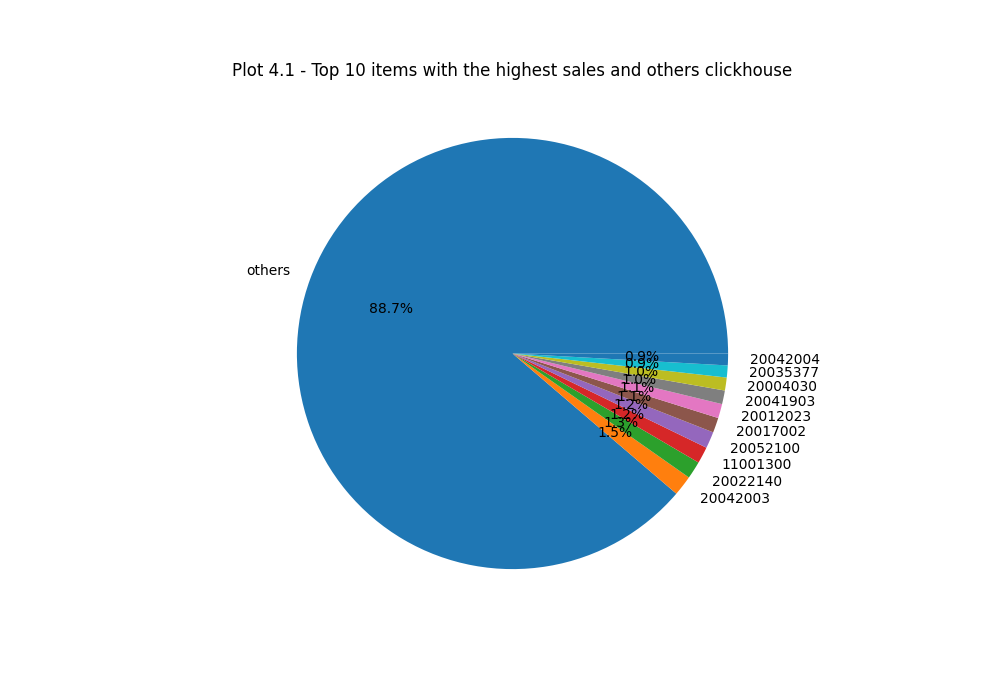
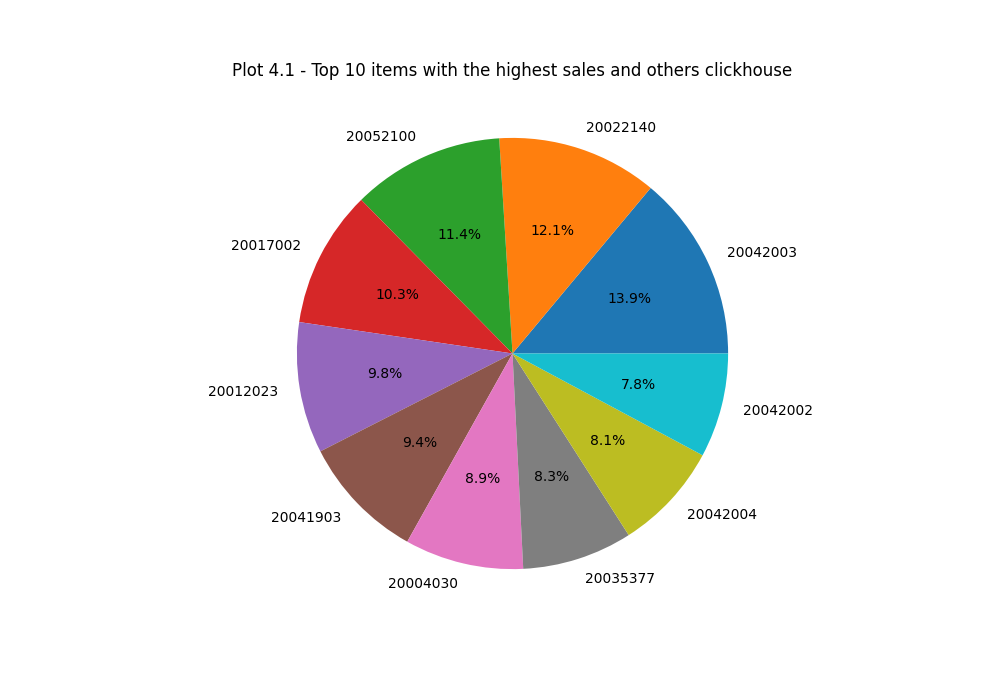
fix for badim 1.1111

Changed region(s): [[0.217, 0.15, 0.837, 0.84], [0.744, 0.33, 0.775, 0.39], [0.62, 0.42, 0.651, 0.45]]

diff --git a/report_for_rafael_badim_every_month.py b/report_for_rafael_badim_every_month.py
@@ -13,6 +13,9 @@ host = os.environ['CLICKHOUSE_HOST']
 start_date = '2023-05-01'
 end_date = '2024-06-13'
 agg_time_freq = 'M'
+digits_0_2 = ['20', '10']
+digits_2_5 = []
+digits_2_8 = []
 order_status = ['בוצעה', 'שולמה', 'מבוטלת']
 items = []
 units = ['מטר']
@@ -42,6 +45,15 @@ def filter_for_query(name_of_column, filter_list):
         formatted_values = ", ".join([f"'{x}'" if isinstance(x, str) else str(x) for x in filter_list])
         return f"AND {name_of_column} IN ({formatted_values})"
 
+def filter_from_right_item_charachters(filter_list, index_of_first_char, lenght_of_chars, name_of_column='item'):
+    if len(filter_list) == 0:
+        return ''
+    else:
+        formatted_values = ", ".join([f"'{x}'" if isinstance(x, str) else str(x) for x in filter_list])
+        return f"AND SUBSTRING({name_of_column}, {index_of_first_char + 1}, {lenght_of_chars}) IN ({formatted_values})"
+
+
+
 # Directory containing the SQL scripts
 input_directory = f'/Users/guybasson/PycharmProjects/clickhouse_sql_repo/setup/{client}/generation_tables/{layer}'
 
@@ -52,7 +64,11 @@ sales_df = client.query_dataframe(f'''SELECT * FROM silver_badim.sales
                             WHERE status_date >= '{start_date}' AND status_date <= '{end_date}' 
                             {filter_for_query('order_status', order_status)}
                              {filter_for_query('item', items)}
-                             {filter_for_query('unit', units)}''')
+                             {filter_for_query('unit', units)}
+                             {filter_from_right_item_charachters(digits_0_2, 0, 2)}
+                             {filter_from_right_item_charachters(digits_2_5, 2, 3)}
+                             {filter_from_right_item_charachters(digits_2_8, 2, 6)}
+                             ''')
 
 # in sales_df i have date column that contains date in format '2021-01-01' or '2021-01' i want add column
 # that will contain only year and month in format '2021-01'
@@ -96,6 +112,9 @@ query_1 = f'''
     {filter_for_query('order_status', order_status)}
     {filter_for_query('item', items)}
     {filter_for_query('unit', units)}
+    {filter_from_right_item_charachters(digits_0_2, 0, 2)}
+    {filter_from_right_item_charachters(digits_2_5, 2, 3)}
+    {filter_from_right_item_charachters(digits_2_8, 2, 6)}
     GROUP BY agg_date
     ORDER BY agg_date
 '''
@@ -147,6 +166,9 @@ query_2 = f'''
     {filter_for_query('order_status', order_status)}
     {filter_for_query('item', items)}
     {filter_for_query('unit', units)}
+    {filter_from_right_item_charachters(digits_0_2, 0, 2)}
+                                 {filter_from_right_item_charachters(digits_2_5, 2, 3)}
+                             {filter_from_right_item_charachters(digits_2_8, 2, 6)}
     GROUP BY agg_date
     ORDER BY agg_date
 '''
@@ -191,6 +213,9 @@ query_3 = f'''WITH
     {filter_for_query('order_status', order_status)}
     {filter_for_query('item', items)}
     {filter_for_query('unit', units)}
+    {filter_from_right_item_charachters(digits_0_2, 0, 2)}
+                                 {filter_from_right_item_charachters(digits_2_5, 2, 3)}
+                             {filter_from_right_item_charachters(digits_2_8, 2, 6)}
         GROUP BY item
         ORDER BY sum(total_price) DESC
         LIMIT 7
@@ -221,6 +246,9 @@ LEFT JOIN
     {filter_for_query('order_status', order_status)}
     {filter_for_query('item', items)}
     {filter_for_query('unit', units)}
+    {filter_from_right_item_charachters(digits_0_2, 0, 2)}
+                                 {filter_from_right_item_charachters(digits_2_5, 2, 3)}
+                             {filter_from_right_item_charachters(digits_2_8, 2, 6)}
     ) AS sales
 ON
     cross_join.status_date = toDate(sales.status_date) AND cross_join.item = sales.item
@@ -275,6 +303,9 @@ query_4 = f'''WITH
         {filter_for_query('order_status', order_status)}
         {filter_for_query('item', items)}
         {filter_for_query('unit', units)}
+        {filter_from_right_item_charachters(digits_0_2, 0, 2)}
+                                     {filter_from_right_item_charachters(digits_2_5, 2, 3)}
+                             {filter_from_right_item_charachters(digits_2_8, 2, 6)}
         GROUP BY item
         ORDER BY sum(total_price) DESC
         LIMIT 10
@@ -290,6 +321,7 @@ WHERE
     {filter_for_query('order_status', order_status)}
     {filter_for_query('item', items)}
     {filter_for_query('unit', units)}
+    {filter_from_right_item_charachters(digits_0_2, 0, 2)}
 GROUP BY 
     item
 ORDER BY
@@ -344,6 +376,9 @@ WITH
             {filter_for_query('order_status', order_status)}
             {filter_for_query('item', items)}
             {filter_for_query('unit', units)}
+            {filter_from_right_item_charachters(digits_0_2, 0, 2)}
+                                         {filter_from_right_item_charachters(digits_2_5, 2, 3)}
+                             {filter_from_right_item_charachters(digits_2_8, 2, 6)}
         GROUP BY
             status_date
     ),
@@ -423,6 +458,9 @@ WITH
             {filter_for_query('order_status', order_status)}
             {filter_for_query('item', items)}
             {filter_for_query('unit', units)}
+            {filter_from_right_item_charachters(digits_0_2, 0, 2)}
+                                         {filter_from_right_item_charachters(digits_2_5, 2, 3)}
+                             {filter_from_right_item_charachters(digits_2_8, 2, 6)}
         GROUP BY
             status_date
     ),
@@ -492,6 +530,9 @@ query_7 = f'''WITH
             {filter_for_query('order_status', order_status)}
             {filter_for_query('item', items)}
             {filter_for_query('unit', units)}
+            {filter_from_right_item_charachters(digits_0_2, 0, 2)}
+                                         {filter_from_right_item_charachters(digits_2_5, 2, 3)}
+                             {filter_from_right_item_charachters(digits_2_8, 2, 6)}
         GROUP BY
             toMonth(toDate(status_date))
     )
@@ -585,6 +626,9 @@ WITH
             {filter_for_query('order_status', order_status)}
             {filter_for_query('item', items)}
             {filter_for_query('unit', units)}
+            {filter_from_right_item_charachters(digits_0_2, 0, 2)}
+                                         {filter_from_right_item_charachters(digits_2_5, 2, 3)}
+                             {filter_from_right_item_charachters(digits_2_8, 2, 6)}
     ),
 
     -- Aggregate total price per day per category
@@ -743,6 +787,9 @@ query_9 = f"""WITH
             {filter_for_query('order_status', order_status)}
             {filter_for_query('item', items)}
             {filter_for_query('unit', units)}
+            {filter_from_right_item_charachters(digits_0_2, 0, 2)}
+                                         {filter_from_right_item_charachters(digits_2_5, 2, 3)}
+                             {filter_from_right_item_charachters(digits_2_8, 2, 6)}
     ),
 
     -- Aggregate total price per day per color
@@ -927,6 +974,9 @@ query_10 = f"""WITH
             {filter_for_query('order_status', order_status)}
             {filter_for_query('item', items)}
             {filter_for_query('unit', units)}
+            {filter_from_right_item_charachters(digits_0_2, 0, 2)}
+                                         {filter_from_right_item_charachters(digits_2_5, 2, 3)}
+                             {filter_from_right_item_charachters(digits_2_8, 2, 6)}
         GROUP BY
             color
     )
@@ -987,6 +1037,9 @@ WHERE
     {filter_for_query('order_status', order_status)}
     {filter_for_query('item', items)}
     {filter_for_query('unit', units)}
+    {filter_from_right_item_charachters(digits_0_2, 0, 2)}
+                                 {filter_from_right_item_charachters(digits_2_5, 2, 3)}
+                             {filter_from_right_item_charachters(digits_2_8, 2, 6)}
 GROUP BY
     date
 ORDER BY
@@ -1115,6 +1168,9 @@ query_13 = f"""WITH
             {filter_for_query('order_status', order_status)}
             {filter_for_query('item', items)}
             {filter_for_query('unit', units)}
+            {filter_from_right_item_charachters(digits_0_2, 0, 2)}
+                                         {filter_from_right_item_charachters(digits_2_5, 2, 3)}
+                             {filter_from_right_item_charachters(digits_2_8, 2, 6)}
         GROUP BY
             status_date
     ),
@@ -1436,6 +1492,9 @@ WHERE
     {filter_for_query('item', items)}
     {filter_for_query('unit', units)}
     {filter_for_query('inv_mov_type', inv_mov_types)}
+    {filter_from_right_item_charachters(digits_0_2, 0, 2)}
+                                 {filter_from_right_item_charachters(digits_2_5, 2, 3)}
+                             {filter_from_right_item_charachters(digits_2_8, 2, 6)}
 GROUP BY    
     agg_date    
 ORDER BY

diff --git a/predict_sales.py b/predict_sales.py
@@ -13,9 +13,18 @@ port = int(os.environ['CLICKHOUSE_PORT'])
 host = os.environ['CLICKHOUSE_HOST']
 
 # Parameters
-start_date = '2024-04-01'
+start_date = '2023-05-01'
 end_date = '2024-06-30'
-agg_time_freq = 'D'
+agg_time_freq = 'M'
+items = ['20009902', '20004028']
+inv_mov_types = ['החזרה מלקוח','חשבוניות מס', 'דאטה מסאפ','משלוחים ללקוח']
+def filter_for_query(name_of_column, filter_list):
+    if len(filter_list) == 0:
+        return ''
+    else:
+        # add quotes to string values
+        formatted_values = ", ".join([f"'{x}'" if isinstance(x, str) else str(x) for x in filter_list])
+        return f"AND {name_of_column} IN ({formatted_values})"
 
 print(password, username, port, host)
 client_name = 'badim'
@@ -43,62 +52,69 @@ class CustomLagModel:
 
     def new(self):
         return CustomLagModel(lags=self.lags)
+if __name__ == "__main__":
 
-# Connect to ClickHouse
-client = clickhouse_driver.Client(host=host, user=username, password=password, port=port, secure=True)
+    # Connect to ClickHouse
+    client = clickhouse_driver.Client(host=host, user=username, password=password, port=port, secure=True)
 
-# Fetch data
-sales_df = client.query_dataframe(f'SELECT * FROM {database}.sales')
-print(sales_df.columns)
-print(sales_df['order_status'].unique())
+    query = f'''SELECT * FROM {database}.stock_log
+                                      where toDate(cur_date) >= '{start_date}' and toDate(cur_date) <= '{end_date}'
+                                        {filter_for_query('inv_mov_type', inv_mov_types)}
+                                        {filter_for_query('item', items)}
+                                      '''
+    print(query)
+    sales_df = client.query_dataframe(query)
 
-# Filter and prepare data
-sales_df = sales_df[sales_df['order_status'].isin(['שולמה', 'בוצעה'])].copy()
-sales_df['status_date'] = pd.to_datetime(sales_df['status_date'])
-sales_df['total_price'] = sales_df['total_price'].astype(float)
-sales_df_grouped = sales_df.groupby(['status_date', 'item'])['total_price'].sum().unstack().fillna(0).stack().reset_index()
-sales_df_grouped = sales_df_grouped.rename(columns={'status_date': 'ds', 'item': 'unique_id', 0: 'y'})
+    print(sales_df.head())
+    print(sales_df.columns)
 
-print(sales_df_grouped)
 
-# Train data preparation
-train = sales_df_grouped.copy()
-train = train[train['unique_id'].isin(['10000000'])]
-print("train", train)
+    # Filter and prepare data
+    sales_df['cur_date'] = pd.to_datetime(sales_df['cur_date'])
+    sales_df['quantity'] = sales_df['quantity'].astype(float)
+    sales_df_grouped = sales_df.groupby(['cur_date', 'item'])['quantity'].sum().unstack().fillna(0).stack().reset_index()
+    # group by agg_time_freq
+    sales_df_grouped = sales_df_grouped.groupby(['item', pd.Grouper(key='cur_date', freq=agg_time_freq)])[0].sum().reset_index()
+    sales_df_grouped = sales_df_grouped.rename(columns={'cur_date': 'ds', 'item': 'unique_id', 0: 'y'})
 
-# Initialize the StatsForecast model with the desired models
-model = StatsForecast(
-    models=[
-        Naive(),
-        SeasonalNaive(season_length=7),
-        WindowAverage(window_size=7),
-        SeasonalWindowAverage(window_size=2, season_length=7),
-    #    CustomLagModel(lags=7)
-    ],
-    freq=agg_time_freq,
-    n_jobs=-1
-)
+    print("sales_df_grouped", sales_df_grouped)
 
-# Fit the model
-model.fit(train)
+    # Train data preparation
+    train = sales_df_grouped.copy()
 
-# Generate the forecast
-forecast = model.predict(h=30)
 
-# Add lag_7 column to forecast
-print("forecast", forecast)
-forecast = forecast.reset_index()
-# Plot forecast and train data
-for unique_id in train['unique_id'].unique():
-    print("unique_id", unique_id)
-    unique_id_train = train[train['unique_id'] == unique_id]
-    unique_id_forecast = forecast.loc[forecast['unique_id'] == unique_id]
-    plt.figure(figsize=(10, 6))
-    plt.plot(unique_id_train['ds'], unique_id_train['y'], label='Train')
-    plt.plot(unique_id_forecast['ds'], unique_id_forecast['Naive'], label='Naive')
-    plt.plot(unique_id_forecast['ds'], unique_id_forecast['SeasonalNaive'], label='SeasonalNaive')
-    plt.plot(unique_id_forecast['ds'], unique_id_forecast['WindowAverage'], label='WindowAverage')
-    plt.plot(unique_id_forecast['ds'], unique_id_forecast['SeasWA'], label='SeasWA')
-    plt.title(f'Unique ID: {unique_id}')
-    plt.legend()
-    plt.show()
+    # Initialize the StatsForecast model with the desired models
+    model = StatsForecast(
+        models=[
+            Naive(),
+            SeasonalNaive(season_length=12),
+            WindowAverage(window_size=6),
+            SeasonalWindowAverage(window_size=2, season_length=6),
+        ],
+        freq=agg_time_freq,
+        n_jobs=-1
+    )
+
+    # Fit the model
+    model.fit(train)
+
+    # Generate the forecast
+    forecast = model.predict(h=4)
+
+    # Add lag_7 column to forecast
+    forecast = forecast.reset_index()
+    all_data = pd.concat([train, forecast], axis=0)
+    print("all_data", all_data)
+    # Plot forecast and train data
+    for unique_id in train['unique_id'].unique():
+        print("unique_id", unique_id)
+        unique_id_all_data = all_data[all_data['unique_id'] == unique_id]
+        plt.figure(figsize=(10, 6))
+        plt.plot(unique_id_all_data['ds'], unique_id_all_data['y'], label='Train')
+        plt.plot(unique_id_all_data['ds'], unique_id_all_data['Naive'], label='Naive')
+        plt.plot(unique_id_all_data['ds'], unique_id_all_data['SeasonalNaive'], label='SeasonalNaive')
+        plt.plot(unique_id_all_data['ds'], unique_id_all_data['WindowAverage'], label='WindowAverage')
+        plt.plot(unique_id_all_data['ds'], unique_id_all_data['SeasWA'], label='SeasWA')
+        plt.title(f'Unique ID: {unique_id}, agg_time_freq: {agg_time_freq}')
+        plt.legend()
+        plt.show()
